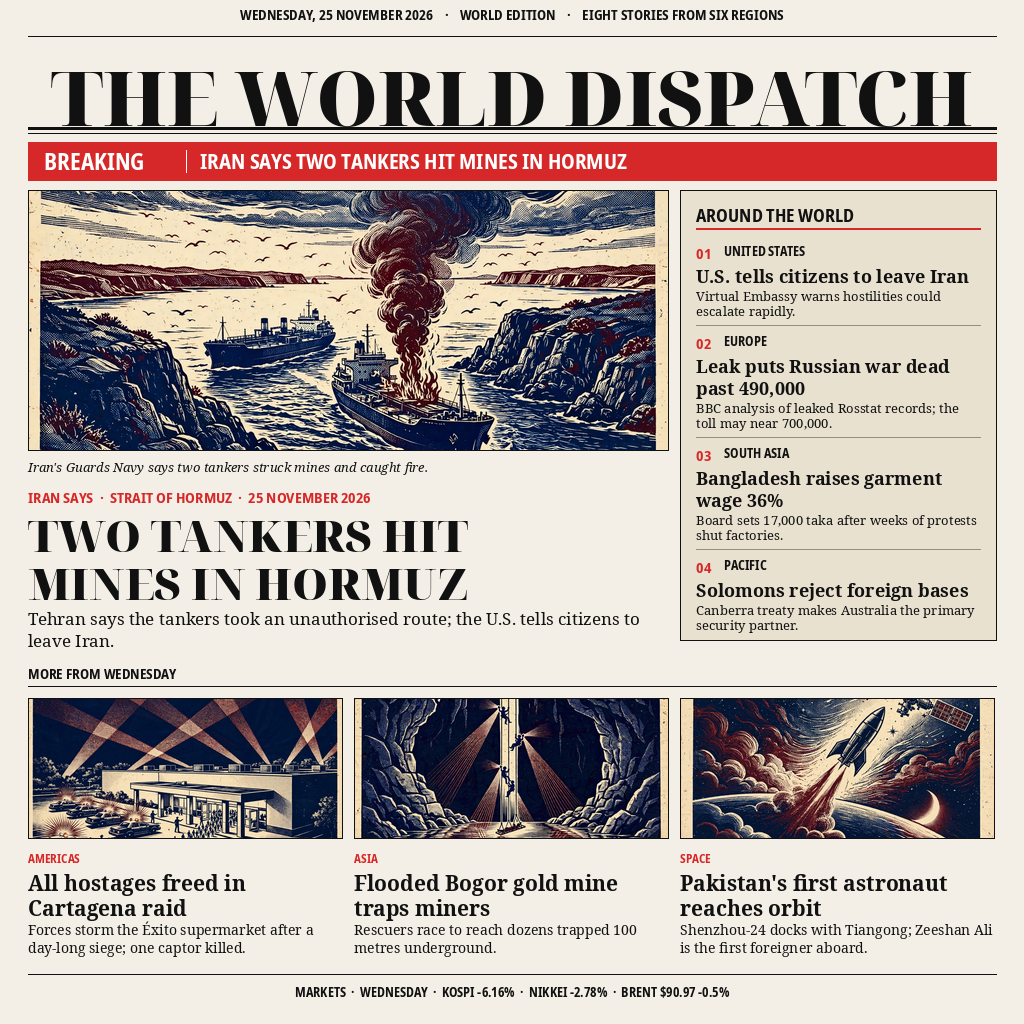
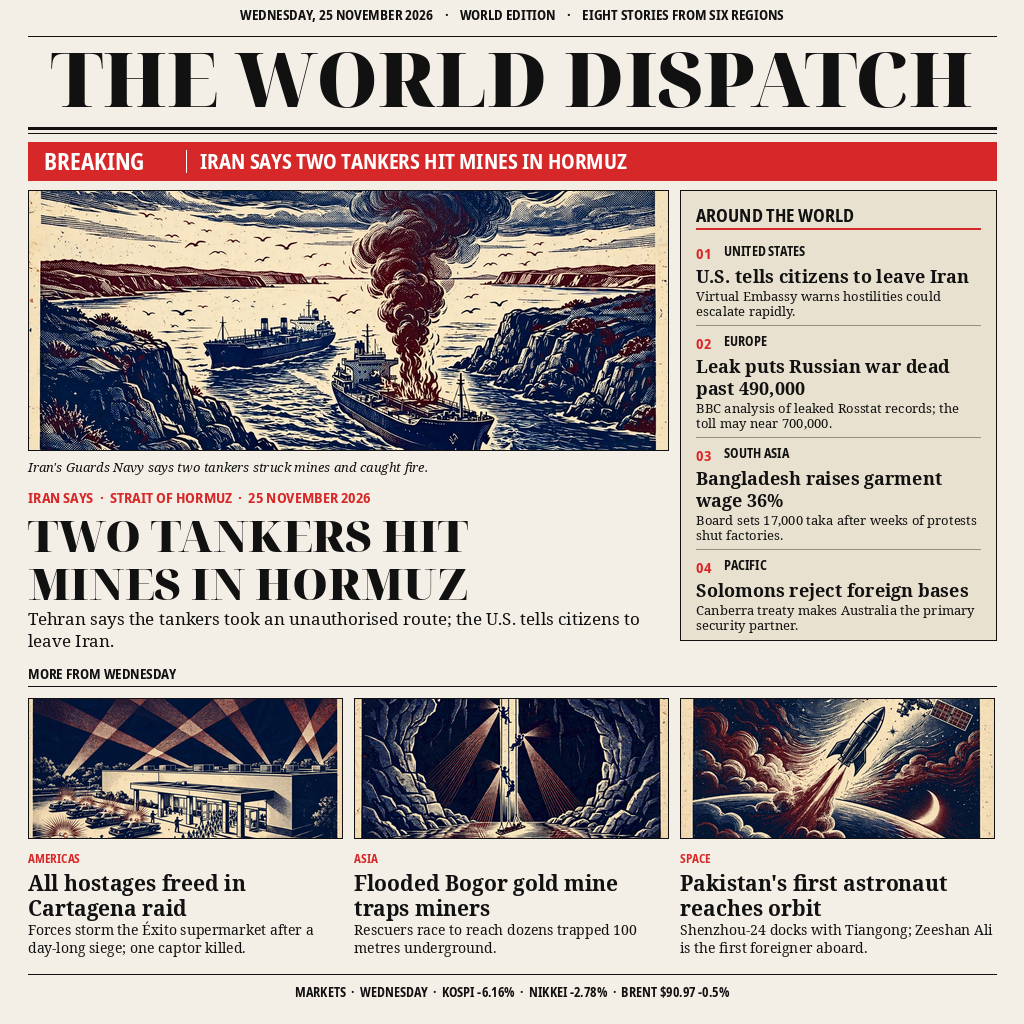
fix: centre masthead in its band, clear of the double rule
THE WORLD DISPATCH ink ran 71..127 against the rule at 128 (1px gap).
Measure the real ink box with textbbox and centre it between the ticker
rule (36) and the double rule (128), biased 2px up: ink now 52..107.

Changed region(s): [[0.0625, 0.0312, 0.5312, 0.125], [0.5625, 0.0312, 0.9688, 0.125]]

diff --git a/draw_frontpage.py b/draw_frontpage.py
@@ -101,7 +101,14 @@ def main():
     # ---- 2. masthead + double rule --------------------------------------
     f_mast = F_DISPLAY(76)
     assert f_mast.getlength("THE WORLD DISPATCH") <= W - 2 * M, "masthead too wide"
-    text(d, (W // 2, 44), "THE WORLD DISPATCH", f_mast, anchor="ma")
+    # Centre the masthead ink in the band between the ticker rule (y=36)
+    # and the double rule (y=128), biased 2px up: the old y=44 put the caps'
+    # baseline 1px above the rule. textbbox measures the real ink box, so
+    # this stays centred even if the font changes.
+    _bb = d.textbbox((0, 0), "THE WORLD DISPATCH", f_mast, anchor="la")
+    _ink_h = _bb[3] - _bb[1]
+    _ink_top = 36 + (128 - 36 - _ink_h) // 2 - 2
+    text(d, (W // 2, _ink_top - _bb[1]), "THE WORLD DISPATCH", f_mast, anchor="ma")
     rule(d, M, RIGHT, 128, width=3)
     rule(d, M, RIGHT, 133, width=1)
 
